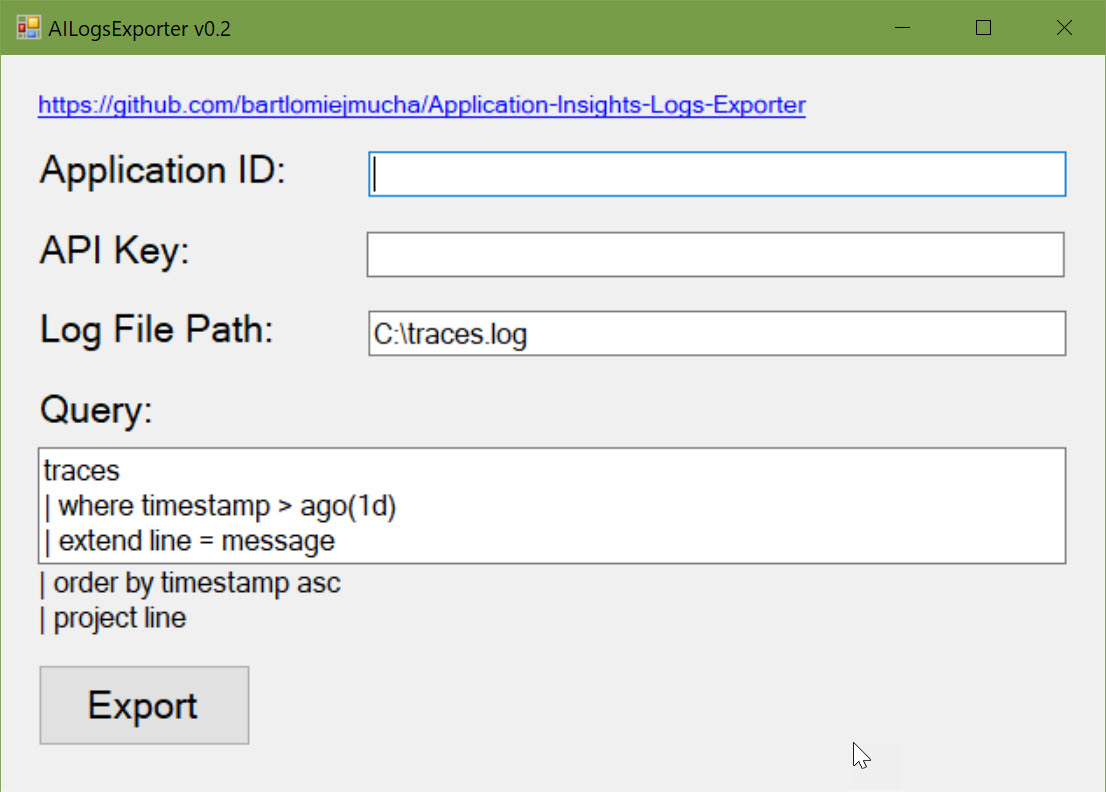
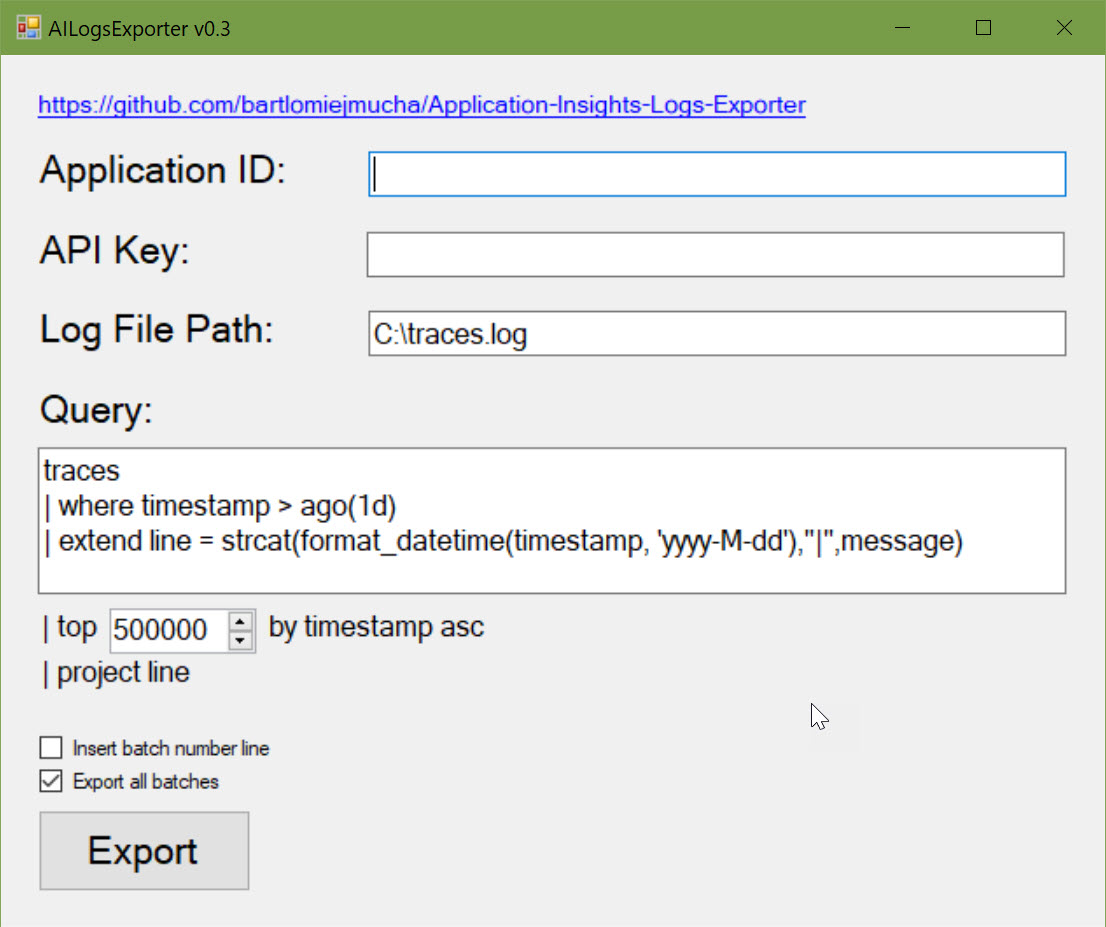
v0.3
v0.3

v0.3

v0.3

diff --git a/standalone/MainForm.Designer.cs b/standalone/MainForm.Designer.cs
@@ -39,7 +39,14 @@
             this.descriptionLinkLabel = new System.Windows.Forms.LinkLabel();
             this.queryLabel = new System.Windows.Forms.Label();
             this.queryTextBox = new System.Windows.Forms.TextBox();
-            this.queryExtendLabel = new System.Windows.Forms.Label();
+            this.queryProjectLabel = new System.Windows.Forms.Label();
+            this.queryTopLabel = new System.Windows.Forms.Label();
+            this.queryTopNumericBox = new System.Windows.Forms.NumericUpDown();
+            this.queryTopByLabel = new System.Windows.Forms.Label();
+            this.insertBatchNumberLineCheckBox = new System.Windows.Forms.CheckBox();
+            this.exportAllBatchesCheckBox = new System.Windows.Forms.CheckBox();
+            this.statusLineLabel = new System.Windows.Forms.Label();
+            ((System.ComponentModel.ISupportInitialize)(this.queryTopNumericBox)).BeginInit();
             this.SuspendLayout();
             // 
             // applicationIdTextBox
@@ -81,7 +88,7 @@
             // exportButton
             // 
             this.exportButton.Font = new System.Drawing.Font("Microsoft Sans Serif", 15.85714F, System.Drawing.FontStyle.Regular, System.Drawing.GraphicsUnit.Point, ((byte)(238)));
-            this.exportButton.Location = new System.Drawing.Point(38, 643);
+            this.exportButton.Location = new System.Drawing.Point(38, 795);
             this.exportButton.Name = "exportButton";
             this.exportButton.Size = new System.Drawing.Size(224, 86);
             this.exportButton.TabIndex = 8;
@@ -135,27 +142,107 @@
             this.queryTextBox.Location = new System.Drawing.Point(38, 414);
             this.queryTextBox.Multiline = true;
             this.queryTextBox.Name = "queryTextBox";
-            this.queryTextBox.Size = new System.Drawing.Size(1075, 121);
+            this.queryTextBox.Size = new System.Drawing.Size(1075, 151);
             this.queryTextBox.TabIndex = 10;
-            this.queryTextBox.Text = "traces \r\n| where timestamp > ago(1d) \r\n| extend line = message";
+            this.queryTextBox.Text = "traces \r\n| where timestamp > ago(1d)\r\n| extend line = strcat(format_datetime(time" +
+    "stamp, \'yyyy-M-dd\'),\"|\",message)";
             // 
-            // queryExtendLabel
+            // queryProjectLabel
             // 
-            this.queryExtendLabel.AutoSize = true;
-            this.queryExtendLabel.Font = new System.Drawing.Font("Microsoft Sans Serif", 12F, System.Drawing.FontStyle.Regular, System.Drawing.GraphicsUnit.Point, ((byte)(238)));
-            this.queryExtendLabel.Location = new System.Drawing.Point(32, 538);
-            this.queryExtendLabel.Margin = new System.Windows.Forms.Padding(3, 0, 0, 0);
-            this.queryExtendLabel.Name = "queryExtendLabel";
-            this.queryExtendLabel.Size = new System.Drawing.Size(321, 64);
-            this.queryExtendLabel.TabIndex = 13;
-            this.queryExtendLabel.Text = "| order by timestamp asc\r\n| project line";
+            this.queryProjectLabel.AutoSize = true;
+            this.queryProjectLabel.Font = new System.Drawing.Font("Microsoft Sans Serif", 12F, System.Drawing.FontStyle.Regular, System.Drawing.GraphicsUnit.Point, ((byte)(238)));
+            this.queryProjectLabel.Location = new System.Drawing.Point(35, 632);
+            this.queryProjectLabel.Margin = new System.Windows.Forms.Padding(3, 0, 0, 0);
+            this.queryProjectLabel.Name = "queryProjectLabel";
+            this.queryProjectLabel.Size = new System.Drawing.Size(168, 32);
+            this.queryProjectLabel.TabIndex = 13;
+            this.queryProjectLabel.Text = "| project line";
+            // 
+            // queryTopLabel
+            // 
+            this.queryTopLabel.AutoSize = true;
+            this.queryTopLabel.Font = new System.Drawing.Font("Microsoft Sans Serif", 12F, System.Drawing.FontStyle.Regular, System.Drawing.GraphicsUnit.Point, ((byte)(238)));
+            this.queryTopLabel.Location = new System.Drawing.Point(35, 584);
+            this.queryTopLabel.Name = "queryTopLabel";
+            this.queryTopLabel.Size = new System.Drawing.Size(69, 32);
+            this.queryTopLabel.TabIndex = 14;
+            this.queryTopLabel.Text = "| top";
+            // 
+            // queryTopNumericBox
+            // 
+            this.queryTopNumericBox.Font = new System.Drawing.Font("Microsoft Sans Serif", 12F, System.Drawing.FontStyle.Regular, System.Drawing.GraphicsUnit.Point, ((byte)(238)));
+            this.queryTopNumericBox.Location = new System.Drawing.Point(113, 584);
+            this.queryTopNumericBox.Maximum = new decimal(new int[] {
+            500000,
+            0,
+            0,
+            0});
+            this.queryTopNumericBox.Minimum = new decimal(new int[] {
+            1,
+            0,
+            0,
+            0});
+            this.queryTopNumericBox.Name = "queryTopNumericBox";
+            this.queryTopNumericBox.Size = new System.Drawing.Size(154, 39);
+            this.queryTopNumericBox.TabIndex = 15;
+            this.queryTopNumericBox.Value = new decimal(new int[] {
+            500000,
+            0,
+            0,
+            0});
+            // 
+            // queryTopByLabel
+            // 
+            this.queryTopByLabel.AutoSize = true;
+            this.queryTopByLabel.Font = new System.Drawing.Font("Microsoft Sans Serif", 12F, System.Drawing.FontStyle.Regular, System.Drawing.GraphicsUnit.Point, ((byte)(238)));
+            this.queryTopByLabel.Location = new System.Drawing.Point(273, 584);
+            this.queryTopByLabel.Name = "queryTopByLabel";
+            this.queryTopByLabel.Size = new System.Drawing.Size(234, 32);
+            this.queryTopByLabel.TabIndex = 16;
+            this.queryTopByLabel.Text = "by timestamp asc";
+            // 
+            // insertBatchNumberLineCheckBox
+            // 
+            this.insertBatchNumberLineCheckBox.AutoSize = true;
+            this.insertBatchNumberLineCheckBox.Location = new System.Drawing.Point(41, 716);
+            this.insertBatchNumberLineCheckBox.Name = "insertBatchNumberLineCheckBox";
+            this.insertBatchNumberLineCheckBox.Size = new System.Drawing.Size(245, 29);
+            this.insertBatchNumberLineCheckBox.TabIndex = 17;
+            this.insertBatchNumberLineCheckBox.Text = "Insert batch number line";
+            this.insertBatchNumberLineCheckBox.UseVisualStyleBackColor = true;
+            // 
+            // exportAllBatchesCheckBox
+            // 
+            this.exportAllBatchesCheckBox.AutoSize = true;
+            this.exportAllBatchesCheckBox.Checked = true;
+            this.exportAllBatchesCheckBox.CheckState = System.Windows.Forms.CheckState.Checked;
+            this.exportAllBatchesCheckBox.Location = new System.Drawing.Point(41, 751);
+            this.exportAllBatchesCheckBox.Name = "exportAllBatchesCheckBox";
+            this.exportAllBatchesCheckBox.Size = new System.Drawing.Size(192, 29);
+            this.exportAllBatchesCheckBox.TabIndex = 18;
+            this.exportAllBatchesCheckBox.Text = "Export all batches";
+            this.exportAllBatchesCheckBox.UseVisualStyleBackColor = true;
+            // 
+            // statusLineLabel
+            // 
+            this.statusLineLabel.AutoSize = true;
+            this.statusLineLabel.Location = new System.Drawing.Point(291, 824);
+            this.statusLineLabel.Name = "statusLineLabel";
+            this.statusLineLabel.Size = new System.Drawing.Size(0, 25);
+            this.statusLineLabel.TabIndex = 19;
             // 
             // MainForm
             // 
             this.AutoScaleDimensions = new System.Drawing.SizeF(11F, 24F);
             this.AutoScaleMode = System.Windows.Forms.AutoScaleMode.Font;
-            this.ClientSize = new System.Drawing.Size(1157, 777);
-            this.Controls.Add(this.queryExtendLabel);
+            this.ClientSize = new System.Drawing.Size(1157, 920);
+            this.Controls.Add(this.statusLineLabel);
+            this.Controls.Add(this.exportAllBatchesCheckBox);
+            this.Controls.Add(this.insertBatchNumberLineCheckBox);
+            this.Controls.Add(this.queryTopByLabel);
+            this.Controls.Add(this.queryTopNumericBox);
+            this.Controls.Add(this.queryTopLabel);
+            this.Controls.Add(this.queryProjectLabel);
             this.Controls.Add(this.descriptionLinkLabel);
             this.Controls.Add(this.queryTextBox);
             this.Controls.Add(this.logFilePathTextBox);
@@ -167,7 +254,8 @@
             this.Controls.Add(this.applicationIdLabel);
             this.Controls.Add(this.applicationIdTextBox);
             this.Name = "MainForm";
-            this.Text = "AILogsExporter v0.2";
+            this.Text = "AILogsExporter v0.3";
+            ((System.ComponentModel.ISupportInitialize)(this.queryTopNumericBox)).EndInit();
             this.ResumeLayout(false);
             this.PerformLayout();
 
@@ -186,7 +274,13 @@
         private System.Windows.Forms.LinkLabel descriptionLinkLabel;
         private System.Windows.Forms.Label queryLabel;
         private System.Windows.Forms.TextBox queryTextBox;
-        private System.Windows.Forms.Label queryExtendLabel;
+        private System.Windows.Forms.Label queryProjectLabel;
+        private System.Windows.Forms.Label queryTopLabel;
+        private System.Windows.Forms.NumericUpDown queryTopNumericBox;
+        private System.Windows.Forms.Label queryTopByLabel;
+        private System.Windows.Forms.CheckBox insertBatchNumberLineCheckBox;
+        private System.Windows.Forms.CheckBox exportAllBatchesCheckBox;
+        private System.Windows.Forms.Label statusLineLabel;
     }
 }
 

diff --git a/standalone/MainForm.cs b/standalone/MainForm.cs
@@ -38,33 +38,62 @@ namespace AILogsExporter
                     HttpResponseMessage response;
                     List<string> lines = null;
                     string lastTimeStamp = null;
+                    var batchNumber = 1;
                     do
                     {
                         var query = queryTextBox.Text;
                         if (!string.IsNullOrEmpty(lastTimeStamp))
                         {
-                            query += $"|where timestamp >= datetime({lastTimeStamp})";
+                            query += $"\r\n|where timestamp >= datetime({lastTimeStamp})";
                         }
 
-                        query += "|order by timestamp asc|project timestamp, line";
+                        query += $"\r\n| top {queryTopNumericBox.Value} by timestamp asc|\r\nproject timestamp, line";
+                        query = Uri.EscapeDataString(query);
 
-                        response = await client.GetAsync($"http://api.applicationinsights.io/v1/apps/{applicationId}/query?query={query}");
+                        SetStatusLine($"Requesting a log batch #{batchNumber}");
+
+                        response = GetAsyncWithRetry(client, $"http://api.applicationinsights.io/v1/apps/{applicationId}/query?query={query}", 3);
                         if (response.IsSuccessStatusCode)
                         {
-                            var resultObject = await response.Content.ReadAsAsync<JObject>();
-                            lines = resultObject["tables"][0]["rows"].Select(row => row[1].Value<string>()).ToList();
+                            var responseContent = await response.Content.ReadAsAsync<JObject>();
+                            if (responseContent["error"] != null)
+                            {
+                                MessageBox.Show(responseContent["error"].ToString(), "Error", MessageBoxButtons.OK, MessageBoxIcon.Error);
+                                break;
+                            }
+
+                            lines = responseContent["tables"][0]["rows"].Select(row => row[1].Value<string>()).ToList();
                             if (lines.Any())
                             {
+                                if (insertBatchNumberLineCheckBox.Checked)
+                                {
+                                    File.AppendAllText(logFilePath, $"-- BATCH {batchNumber}\n");
+                                }
+
                                 File.AppendAllLines(logFilePath, lines);
 
-                                lastTimeStamp = resultObject["tables"][0]["rows"].Last()[0].Value<DateTime>().ToUniversalTime().ToString("O");
+                                lastTimeStamp = responseContent["tables"][0]["rows"].Last()[0].Value<DateTime>().ToUniversalTime().ToString("O");
                             }
                         }
                         else
                         {
+                            if (response.Content != null)
+                            {
+                                var responseContent = await response.Content.ReadAsAsync<JObject>();
+                                if (responseContent["error"] != null)
+                                {
+                                    MessageBox.Show(responseContent["error"].ToString(), "Error", MessageBoxButtons.OK, MessageBoxIcon.Error);
+                                    break;
+                                }
+                            }
+
                             MessageBox.Show(response.ToString(), "Exception", MessageBoxButtons.OK, MessageBoxIcon.Error);
+                            break;
                         }
-                    } while (response.IsSuccessStatusCode && lines != null && lines.Count >= 500000);
+
+                        batchNumber++;
+                    }
+                    while (exportAllBatchesCheckBox.Checked && response.IsSuccessStatusCode && lines.Count >= queryTopNumericBox.Value);
                 }
             }
             catch (Exception ex)
@@ -74,7 +103,30 @@ namespace AILogsExporter
             finally
             {
                 exportButton.Enabled = true;
+                SetStatusLine("");
             }
+        }
+
+        private void SetStatusLine(string status)
+        {
+            statusLineLabel.Text = status;
+        }
+
+        private HttpResponseMessage GetAsyncWithRetry(HttpClient client, string requestUri, int retryCount)
+        {
+            HttpResponseMessage response = null;
+            for (var i = 0; i < retryCount; i++)
+            {
+                response = client.GetAsync(requestUri).Result;
+                if (response.IsSuccessStatusCode)
+                {
+                    return response;
+                }
+
+                SetStatusLine($"Retrying #{i+1}");
+            }
+
+            return response;
         }
     }
 }

diff --git a/standalone/Properties/AssemblyInfo.cs b/standalone/Properties/AssemblyInfo.cs
@@ -31,5 +31,5 @@ using System.Runtime.InteropServices;
 // You can specify all the values or you can default the Build and Revision Numbers
 // by using the '*' as shown below:
 // [assembly: AssemblyVersion("1.0.*")]
-[assembly: AssemblyVersion("0.1.0.0")]
-[assembly: AssemblyFileVersion("0.1.0.0")]
+[assembly: AssemblyVersion("0.3.0.0")]
+[assembly: AssemblyFileVersion("0.3.0.0")]
